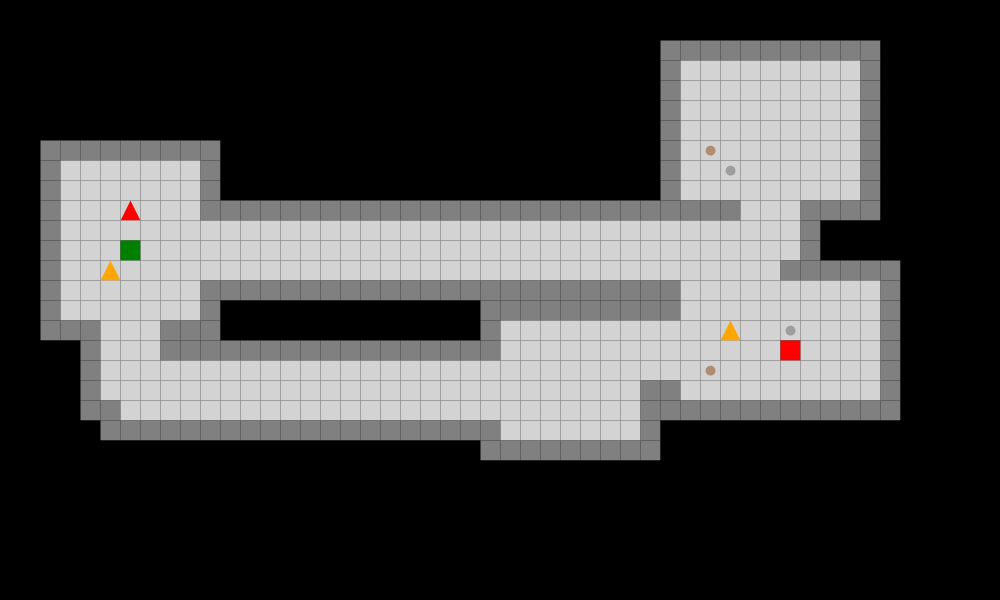
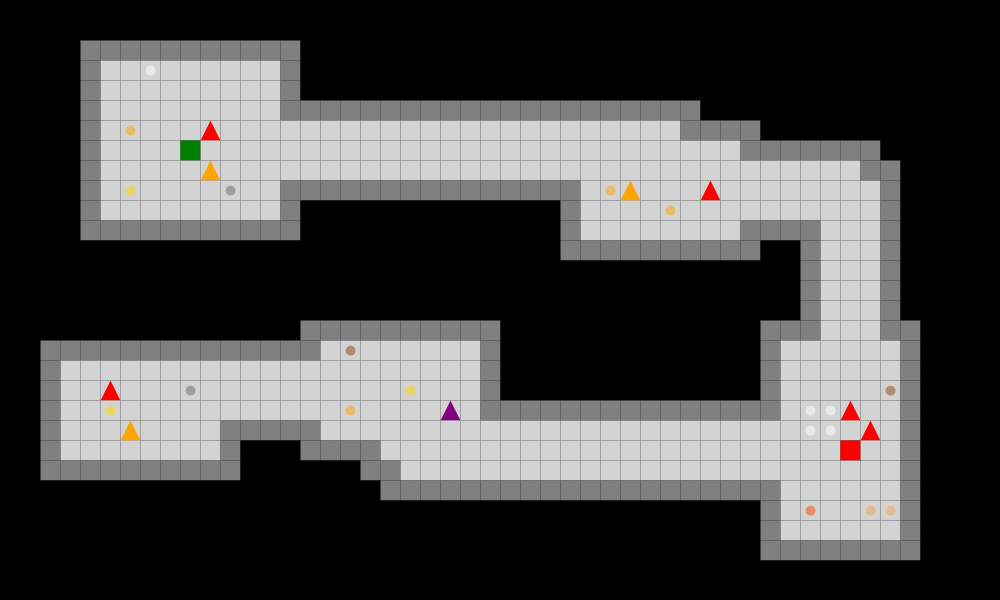
Update decor generation

diff --git a/src/ProceduralDungeon/ProceduralDungeon/Logic/Decor/DecorGenerator.cs b/src/ProceduralDungeon/ProceduralDungeon/Logic/Decor/DecorGenerator.cs
@@ -3,61 +3,217 @@
     public class DecorGenerator : IDecorGenerator
     {
         public DecorType[,] DecorLayer { get; }
-
         private readonly Random _random = new();
+        private const int MinDistanceBetweenObjects = 2;
 
         public DecorGenerator(int width, int height)
         {
             DecorLayer = new DecorType[width, height];
-            for (var x = 0; x < width; x++)
-            for (var y = 0; y < height; y++)
-            {
-                DecorLayer[x, y] = DecorType.None;
-            }
         }
 
         public void GenerateDecor(TileType[,] map, List<Room> rooms)
         {
             foreach (var room in rooms)
             {
-                int decorAttempts;
-                switch (room.Type)
+                GenerateRoomDecor(map, room);
+                GenerateWallDecor(map, room);
+            }
+
+            GenerateCorridorDecor(map, rooms);
+        }
+
+        private void GenerateRoomDecor(TileType[,] map, Room room)
+        {
+            var (baseDensity, specialObjects) = GetRoomDecorProfile(room.Type);
+            var attempts = CalculateDecorAttempts(room, baseDensity);
+
+            for (int i = 0; i < attempts; i++)
+            {
+                var (x, y) = FindValidPosition(room, map, 1);
+                if (x < 0 || y < 0) continue;
+
+                var decor = SelectDecorType(room.Type, specialObjects);
+                if (decor != DecorType.None && IsPositionValid(x, y, map))
                 {
-                    case RoomType.Treatment:
-                        decorAttempts = _random.Next(3, 6); // Больше сундуков
-                        break;
-                    case RoomType.Trap:
-                        decorAttempts = _random.Next(2, 4); // Больше ловушек
-                        break;
-                    case RoomType.Hard:
-                        decorAttempts = _random.Next(0, 2); // Минимум декораций
-                        break;
-                    default:
-                        decorAttempts = _random.Next(0, 3); // Обычное количество
-                        break;
-                }
-
-                for (var i = 0; i < decorAttempts; i++)
-                {
-                    var x = _random.Next(room.X + 1, room.X + room.Width - 1);
-                    var y = _random.Next(room.Y + 1, room.Y + room.Height - 1);
-
-                    if (DecorLayer[x, y] != DecorType.None) continue; // Не перезаписываем
-
-                    DecorLayer[x, y] = room.Type switch
-                    {
-                        RoomType.Treatment => DecorType.Chest,
-                        RoomType.Trap => DecorType.PressurePlate,
-                        _ => _random.NextDouble() switch
-                        {
-                            < 0.3 => DecorType.Chest,
-                            < 0.6 => DecorType.Column,
-                            < 0.8 => DecorType.PressurePlate,
-                            _ => DecorType.Barrel
-                        }
-                    };
+                    PlaceDecorWithSize(x, y, decor, map);
                 }
             }
+        }
+
+        private int CalculateDecorAttempts(Room room, int baseDensity)
+        {
+            var roomArea = room.Width * room.Height;
+            return (int)(roomArea * baseDensity * 0.1);
+        }
+
+        private (int baseDensity, List<DecorType> specialObjects) GetRoomDecorProfile(RoomType type)
+        {
+            return type switch
+            {
+                RoomType.Treatment => (4, new List<DecorType> { DecorType.MedicalTable, DecorType.Altar }),
+                RoomType.Trap => (3, new List<DecorType> { DecorType.Spikes, DecorType.PressurePlate }),
+                RoomType.Hard => (2, new List<DecorType> { DecorType.Bones, DecorType.Campfire }),
+                _ => (2, new List<DecorType> { DecorType.Barrel, DecorType.Column })
+            };
+        }
+
+        private DecorType SelectDecorType(RoomType roomType, List<DecorType> specialObjects)
+        {
+            if (_random.NextDouble() < 0.3 && specialObjects.Count > 0)
+            {
+                return specialObjects[_random.Next(specialObjects.Count)];
+            }
+
+            return GetWeightedDecor(roomType);
+        }
+
+        private DecorType GetWeightedDecor(RoomType roomType)
+        {
+            var weights = new Dictionary<DecorType, int>
+            {
+                [DecorType.None] = 0,
+                [DecorType.Chest] = roomType == RoomType.Trap ? 5 : 15,
+                [DecorType.Barrel] = 30,
+                [DecorType.Column] = 20,
+                [DecorType.Torch] = 25,
+                [DecorType.BookShelf] = roomType == RoomType.Treatment ? 10 : 5,
+                [DecorType.Campfire] = 10
+            };
+
+            return WeightedRandomizer.GetRandom(weights);
+        }
+
+        private void PlaceDecorWithSize(int x, int y, DecorType decor, TileType[,] map)
+        {
+            var size = GetDecorSize(decor);
+            if (CanPlaceDecor(x, y, size, map))
+            {
+                for (int dx = 0; dx < size.Width; dx++)
+                {
+                    for (int dy = 0; dy < size.Height; dy++)
+                    {
+                        DecorLayer[x + dx, y + dy] = decor;
+                    }
+                }
+            }
+        }
+
+        private (int Width, int Height) GetDecorSize(DecorType decor)
+        {
+            return decor switch
+            {
+                DecorType.BookShelf => (2, 1),
+                DecorType.MedicalTable => (2, 2),
+                _ => (1, 1)
+            };
+        }
+
+        private bool CanPlaceDecor(int x, int y, (int W, int H) size, TileType[,] map)
+        {
+            for (int dx = 0; dx < size.W; dx++)
+            {
+                for (int dy = 0; dy < size.H; dy++)
+                {
+                    if (x + dx >= map.GetLength(0) ||
+                        y + dy >= map.GetLength(1) ||
+                        map[x + dx, y + dy] != TileType.Floor ||
+                        DecorLayer[x + dx, y + dy] != DecorType.None)
+                        return false;
+                }
+            }
+
+            return true;
+        }
+
+        private void GenerateWallDecor(TileType[,] map, Room room)
+        {
+            var wallSides = new[] { room.X, room.X + room.Width - 1 };
+            foreach (var x in wallSides)
+            {
+                for (int y = room.Y; y < room.Y + room.Height; y++)
+                {
+                    if (_random.NextDouble() < 0.1 && map[x, y] == TileType.Wall)
+                    {
+                        DecorLayer[x, y] = DecorType.Torch;
+                    }
+                }
+            }
+        }
+
+        private void GenerateCorridorDecor(TileType[,] map, List<Room> rooms)
+        {
+            foreach (var room in rooms)
+            {
+                if (_random.NextDouble() < 0.25)
+                {
+                    var (x, y) = FindValidPosition(room, map, 0);
+                    if (x > 0 && y > 0)
+                    {
+                        DecorLayer[x, y] = _random.NextDouble() < 0.5
+                            ? DecorType.Barrel
+                            : DecorType.Bones;
+                    }
+                }
+            }
+        }
+
+        private (int x, int y) FindValidPosition(Room room, TileType[,] map, int border)
+        {
+            for (int attempt = 0; attempt < 50; attempt++)
+            {
+                int x = _random.Next(room.X + border, room.X + room.Width - border);
+                int y = _random.Next(room.Y + border, room.Y + room.Height - border);
+
+                if (IsPositionValid(x, y, map) &&
+                    !HasNearbyDecor(x, y, MinDistanceBetweenObjects))
+                {
+                    return (x, y);
+                }
+            }
+
+            return (-1, -1);
+        }
+
+        private bool HasNearbyDecor(int x, int y, int radius)
+        {
+            for (int dx = -radius; dx <= radius; dx++)
+            {
+                for (int dy = -radius; dy <= radius; dy++)
+                {
+                    int nx = x + dx;
+                    int ny = y + dy;
+                    if (nx >= 0 && nx < DecorLayer.GetLength(0) &&
+                        ny >= 0 && ny < DecorLayer.GetLength(1) &&
+                        DecorLayer[nx, ny] != DecorType.None)
+                    {
+                        return true;
+                    }
+                }
+            }
+
+            return false;
+        }
+
+        private bool IsPositionValid(int x, int y, TileType[,] map)
+        {
+            return map[x, y] == TileType.Floor;
+        }
+    }
+
+    public static class WeightedRandomizer
+    {
+        public static T GetRandom<T>(Dictionary<T, int> weights)
+        {
+            var total = weights.Values.Sum();
+            var random = new Random().Next(total);
+
+            foreach (var kvp in weights)
+            {
+                if (random < kvp.Value) return kvp.Key;
+                random -= kvp.Value;
+            }
+
+            return default;
         }
     }
 }

diff --git a/src/ProceduralDungeon/ProceduralDungeon/Types/DecorType.cs b/src/ProceduralDungeon/ProceduralDungeon/Types/DecorType.cs
@@ -2,13 +2,17 @@
 {
     public enum DecorType
     {
-        None,
-        Chest,
-        Barrel,
-        PressurePlate,
-        Column,
-        Altar,
-        Statue,
-        BrokenWall
+        None, // Ничего
+        Chest, // Сундук
+        Barrel, // Бочка
+        Column, // Колонна
+        PressurePlate, // Нажимная плита
+        Torch, // Факел
+        Bones, // Кости
+        BookShelf, // Книжная полка
+        Campfire, // Костер
+        Altar, // Алтарь
+        Spikes, // Шипы
+        MedicalTable // Медицинский стол
     }
 }

diff --git a/src/ProceduralDungeon/ProceduralDungeon/Renderer/ConsoleDungeonRenderer.cs b/src/ProceduralDungeon/ProceduralDungeon/Renderer/ConsoleDungeonRenderer.cs
@@ -39,6 +39,8 @@ namespace ProceduralDungeon
         {
             TileType.Wall => '#',
             TileType.Floor => '.',
+            TileType.Start => 'S',
+            TileType.Exit => 'E',
             _ => ' '
         };
 
@@ -49,8 +51,12 @@ namespace ProceduralDungeon
             DecorType.PressurePlate => 'P',
             DecorType.Column => 'O',
             DecorType.Altar => 'A',
-            DecorType.Statue => 'S',
-            DecorType.BrokenWall => 'W',
+            DecorType.Torch => 'T',
+            DecorType.Bones => 'X',
+            DecorType.BookShelf => 'S',
+            DecorType.Campfire => 'F',
+            DecorType.Spikes => 'I',
+            DecorType.MedicalTable => 'M',
             _ => ' '
         };
 

diff --git a/src/ProceduralDungeon/ProceduralDungeon/Renderer/MultiImageDungeonRenderer.cs b/src/ProceduralDungeon/ProceduralDungeon/Renderer/MultiImageDungeonRenderer.cs
@@ -31,8 +31,12 @@ namespace ProceduralDungeon
                 DecorType.PressurePlate => Color.DarkGray,
                 DecorType.Column => Color.DimGray,
                 DecorType.Altar => Color.DarkRed,
-                DecorType.Statue => Color.White,
-                DecorType.BrokenWall => Color.LightGray,
+                DecorType.Torch => Color.Orange,
+                DecorType.Bones => Color.White,
+                DecorType.BookShelf => Color.SandyBrown,
+                DecorType.Campfire => Color.OrangeRed,
+                DecorType.Spikes => Color.DarkRed,
+                DecorType.MedicalTable => Color.White,
                 _ => Color.Magenta
             };
         }

diff --git a/src/ProceduralDungeon/ProceduralDungeon/Logic/Enemy/EnemySpawner.cs b/src/ProceduralDungeon/ProceduralDungeon/Logic/Enemy/EnemySpawner.cs
@@ -34,6 +34,8 @@
 
                     if (EnemyLayer[x, y] != EnemyType.None) continue;
 
+                    if (map[x, y] != TileType.Floor) continue;
+
                     EnemyLayer[x, y] = room.Type == RoomType.Hard
                         ? EnemyType.Boss
                         : _random.NextDouble() < 0.5

diff --git a/src/ProceduralDungeon/ProceduralDungeon/obj/Debug/net9.0/ProceduralDungeon.AssemblyInfo.cs b/src/ProceduralDungeon/ProceduralDungeon/obj/Debug/net9.0/ProceduralDungeon.AssemblyInfo.cs
@@ -13,7 +13,7 @@ using System.Reflection;
 [assembly: System.Reflection.AssemblyCompanyAttribute("ProceduralDungeon")]
 [assembly: System.Reflection.AssemblyConfigurationAttribute("Debug")]
 [assembly: System.Reflection.AssemblyFileVersionAttribute("1.0.0.0")]
-[assembly: System.Reflection.AssemblyInformationalVersionAttribute("1.0.0+4d12508983611943fd37e14e1b738ec35377ddce")]
+[assembly: System.Reflection.AssemblyInformationalVersionAttribute("1.0.0+a9f174dedf3b2e07cfd265bd18e0c95267431d8f")]
 [assembly: System.Reflection.AssemblyProductAttribute("ProceduralDungeon")]
 [assembly: System.Reflection.AssemblyTitleAttribute("ProceduralDungeon")]
 [assembly: System.Reflection.AssemblyVersionAttribute("1.0.0.0")]